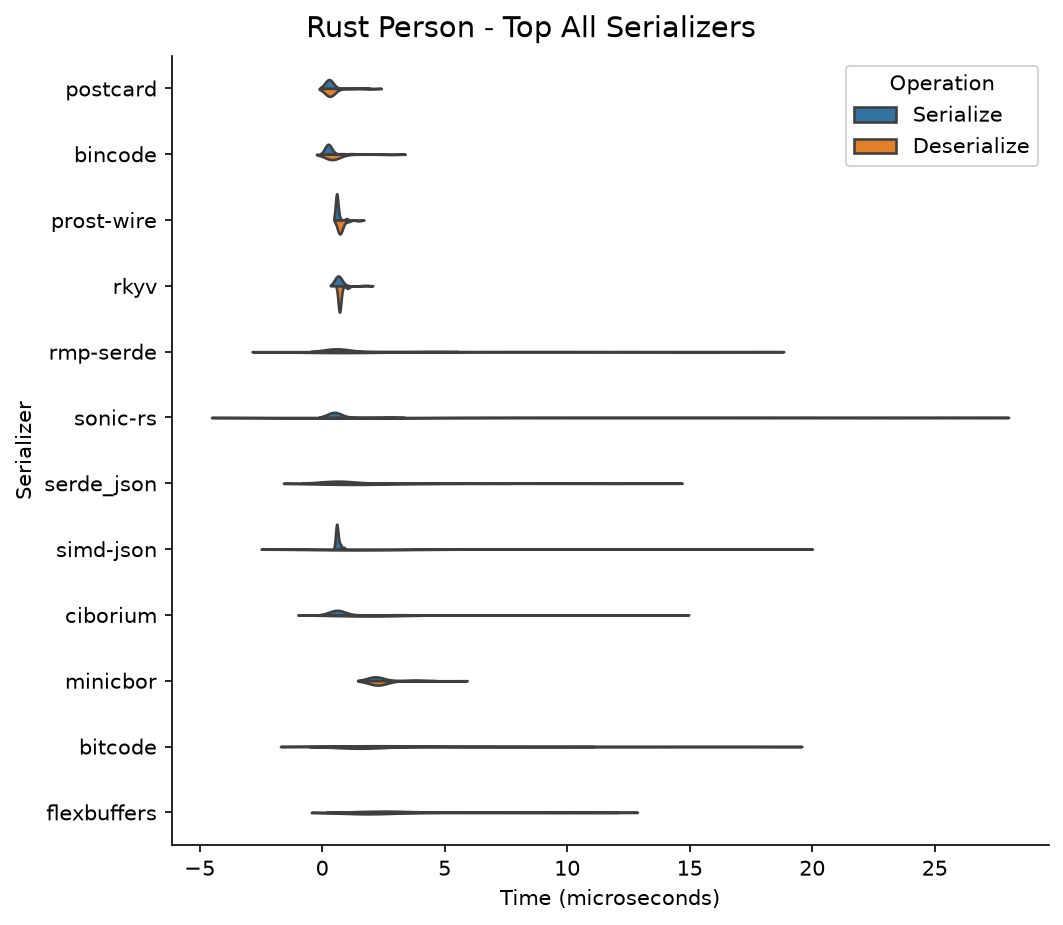
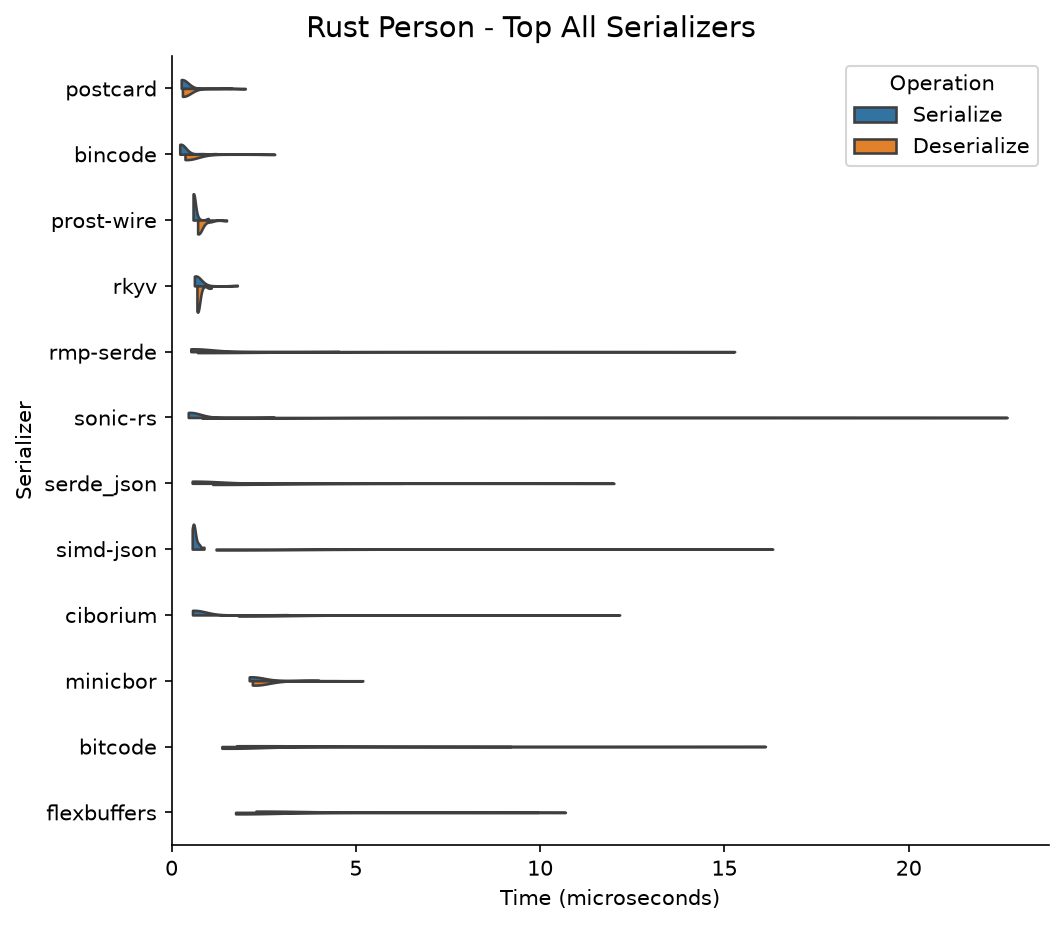
fix(analysis): violin cut=0 without unsupported clip kwarg
Seaborn/matplotlib on this env rejects clip= on violin fills; rely on
cut=0 and xlim(0, None). Regenerate Rust/C/JS dashboard PNGs.

diff --git a/analysis/src/benchmark_analysis/reports.py b/analysis/src/benchmark_analysis/reports.py
@@ -94,8 +94,6 @@ def _generate_violin_plot(melted_df: pd.DataFrame, data_type: str, output_dir: s
             split=True,
             # cut=0: do not extend KDE past observed data (avoids fake negative times)
             cut=0,
-            # clip KDE support to non-negative times only
-            clip=(0, None),
             inner=None,  # Remove box plot inner lines for cleaner violin appearance
             height=6,
             aspect=1.2,
